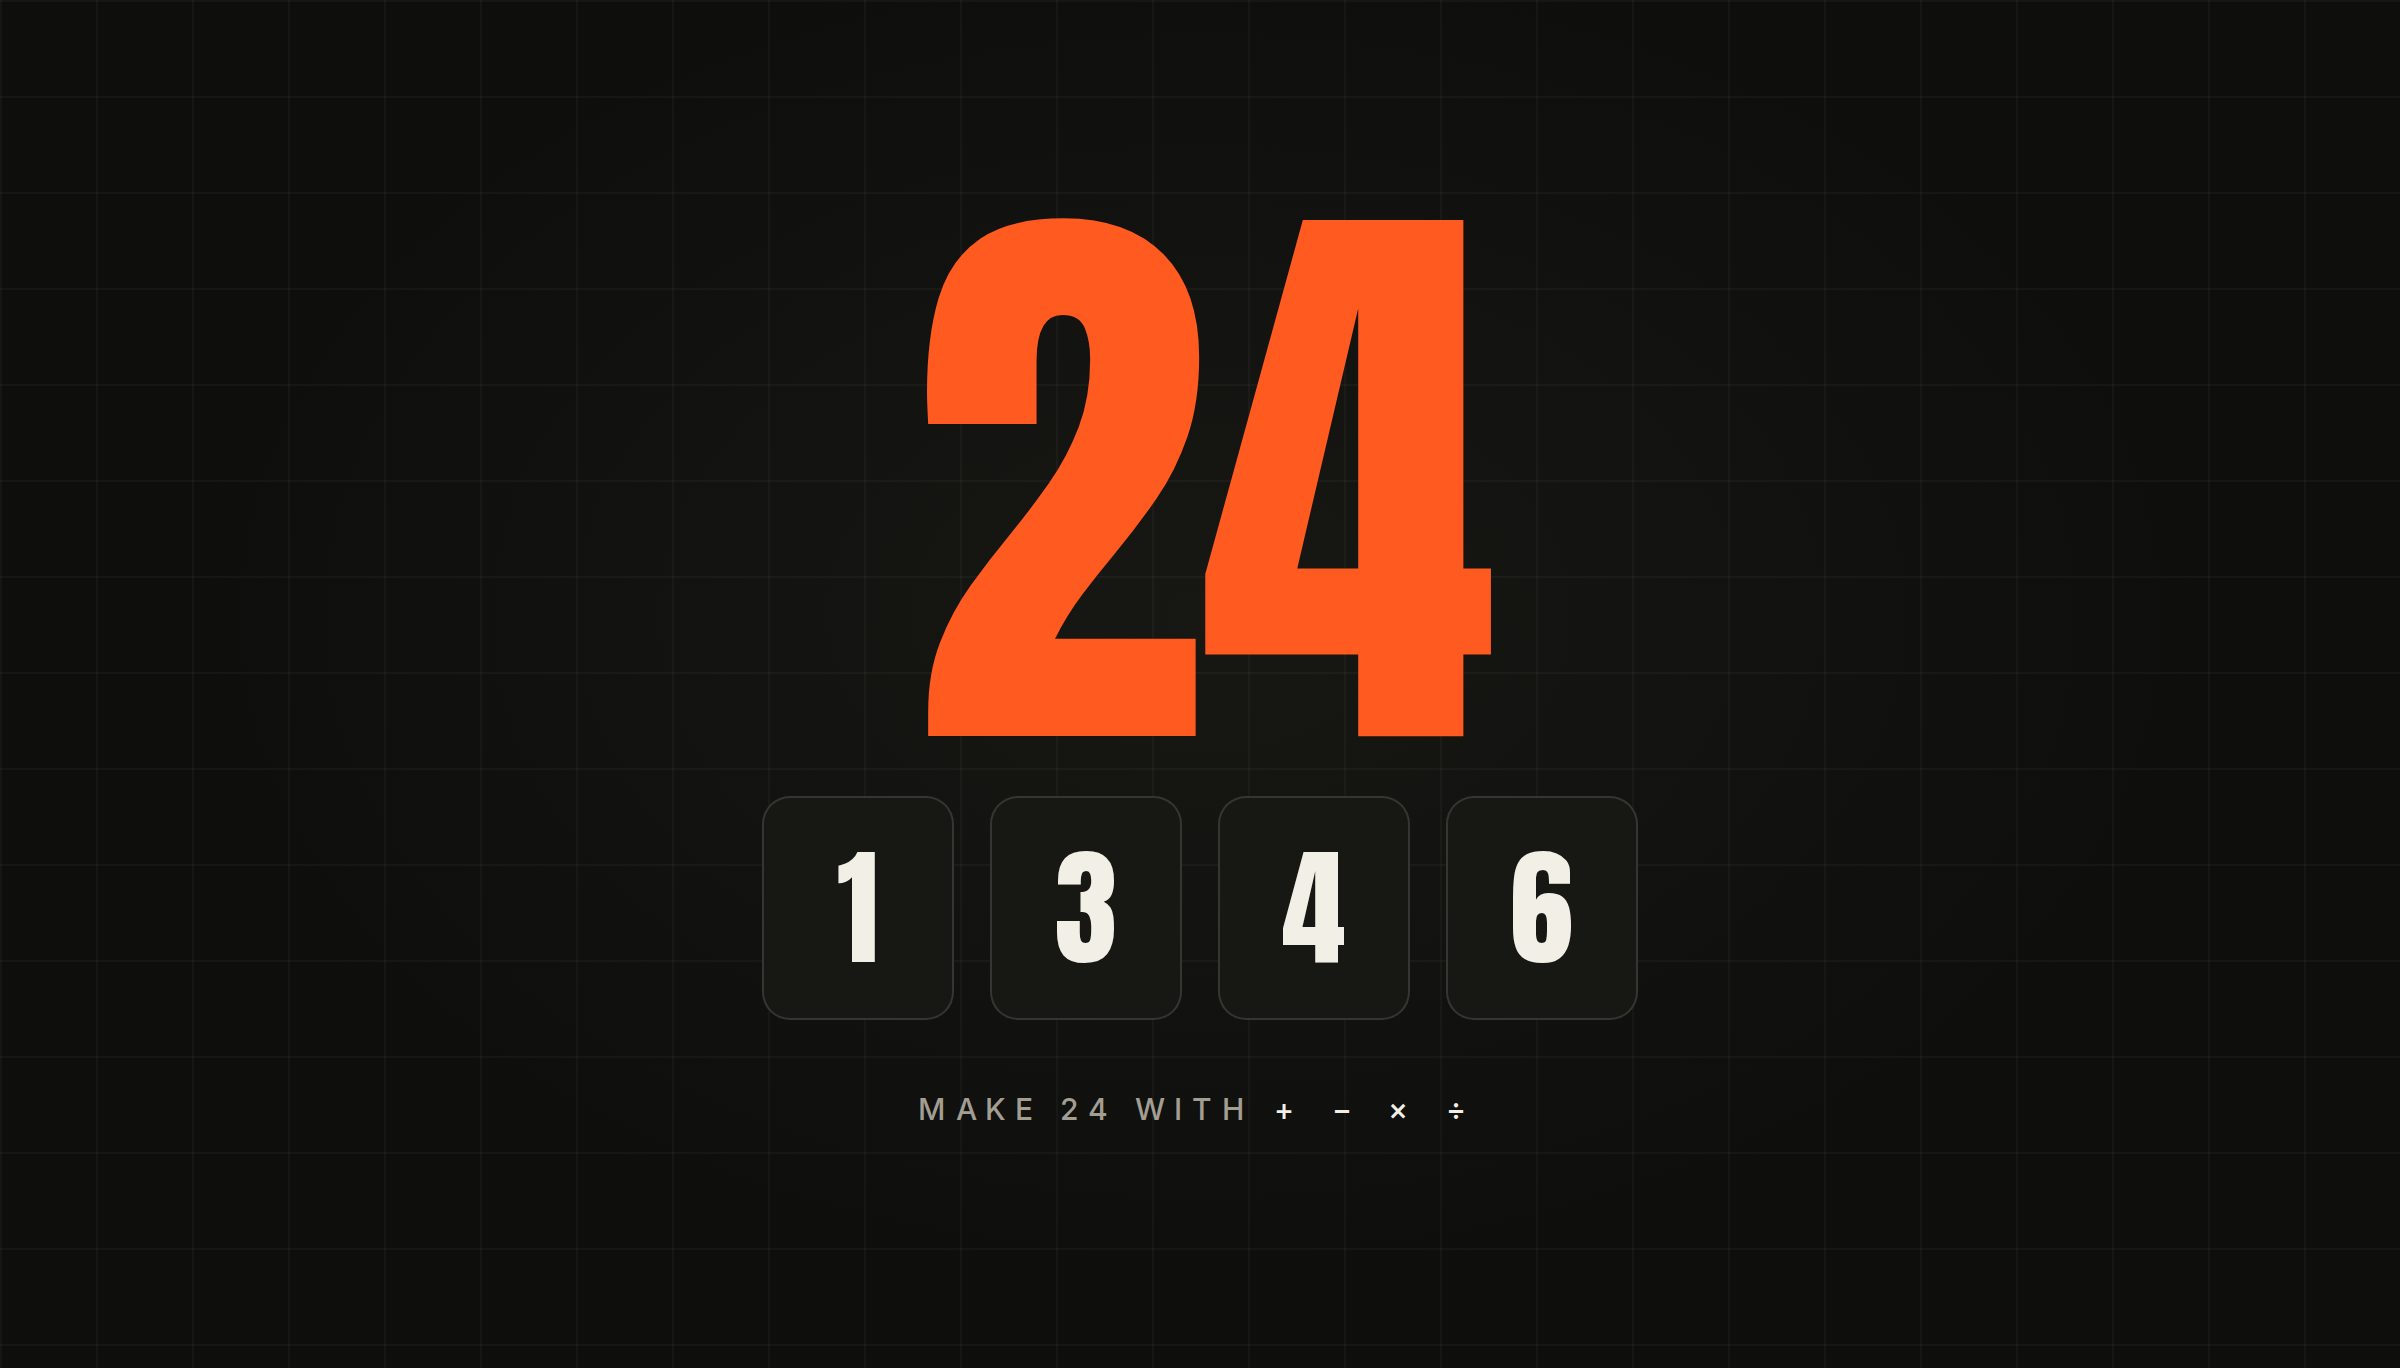
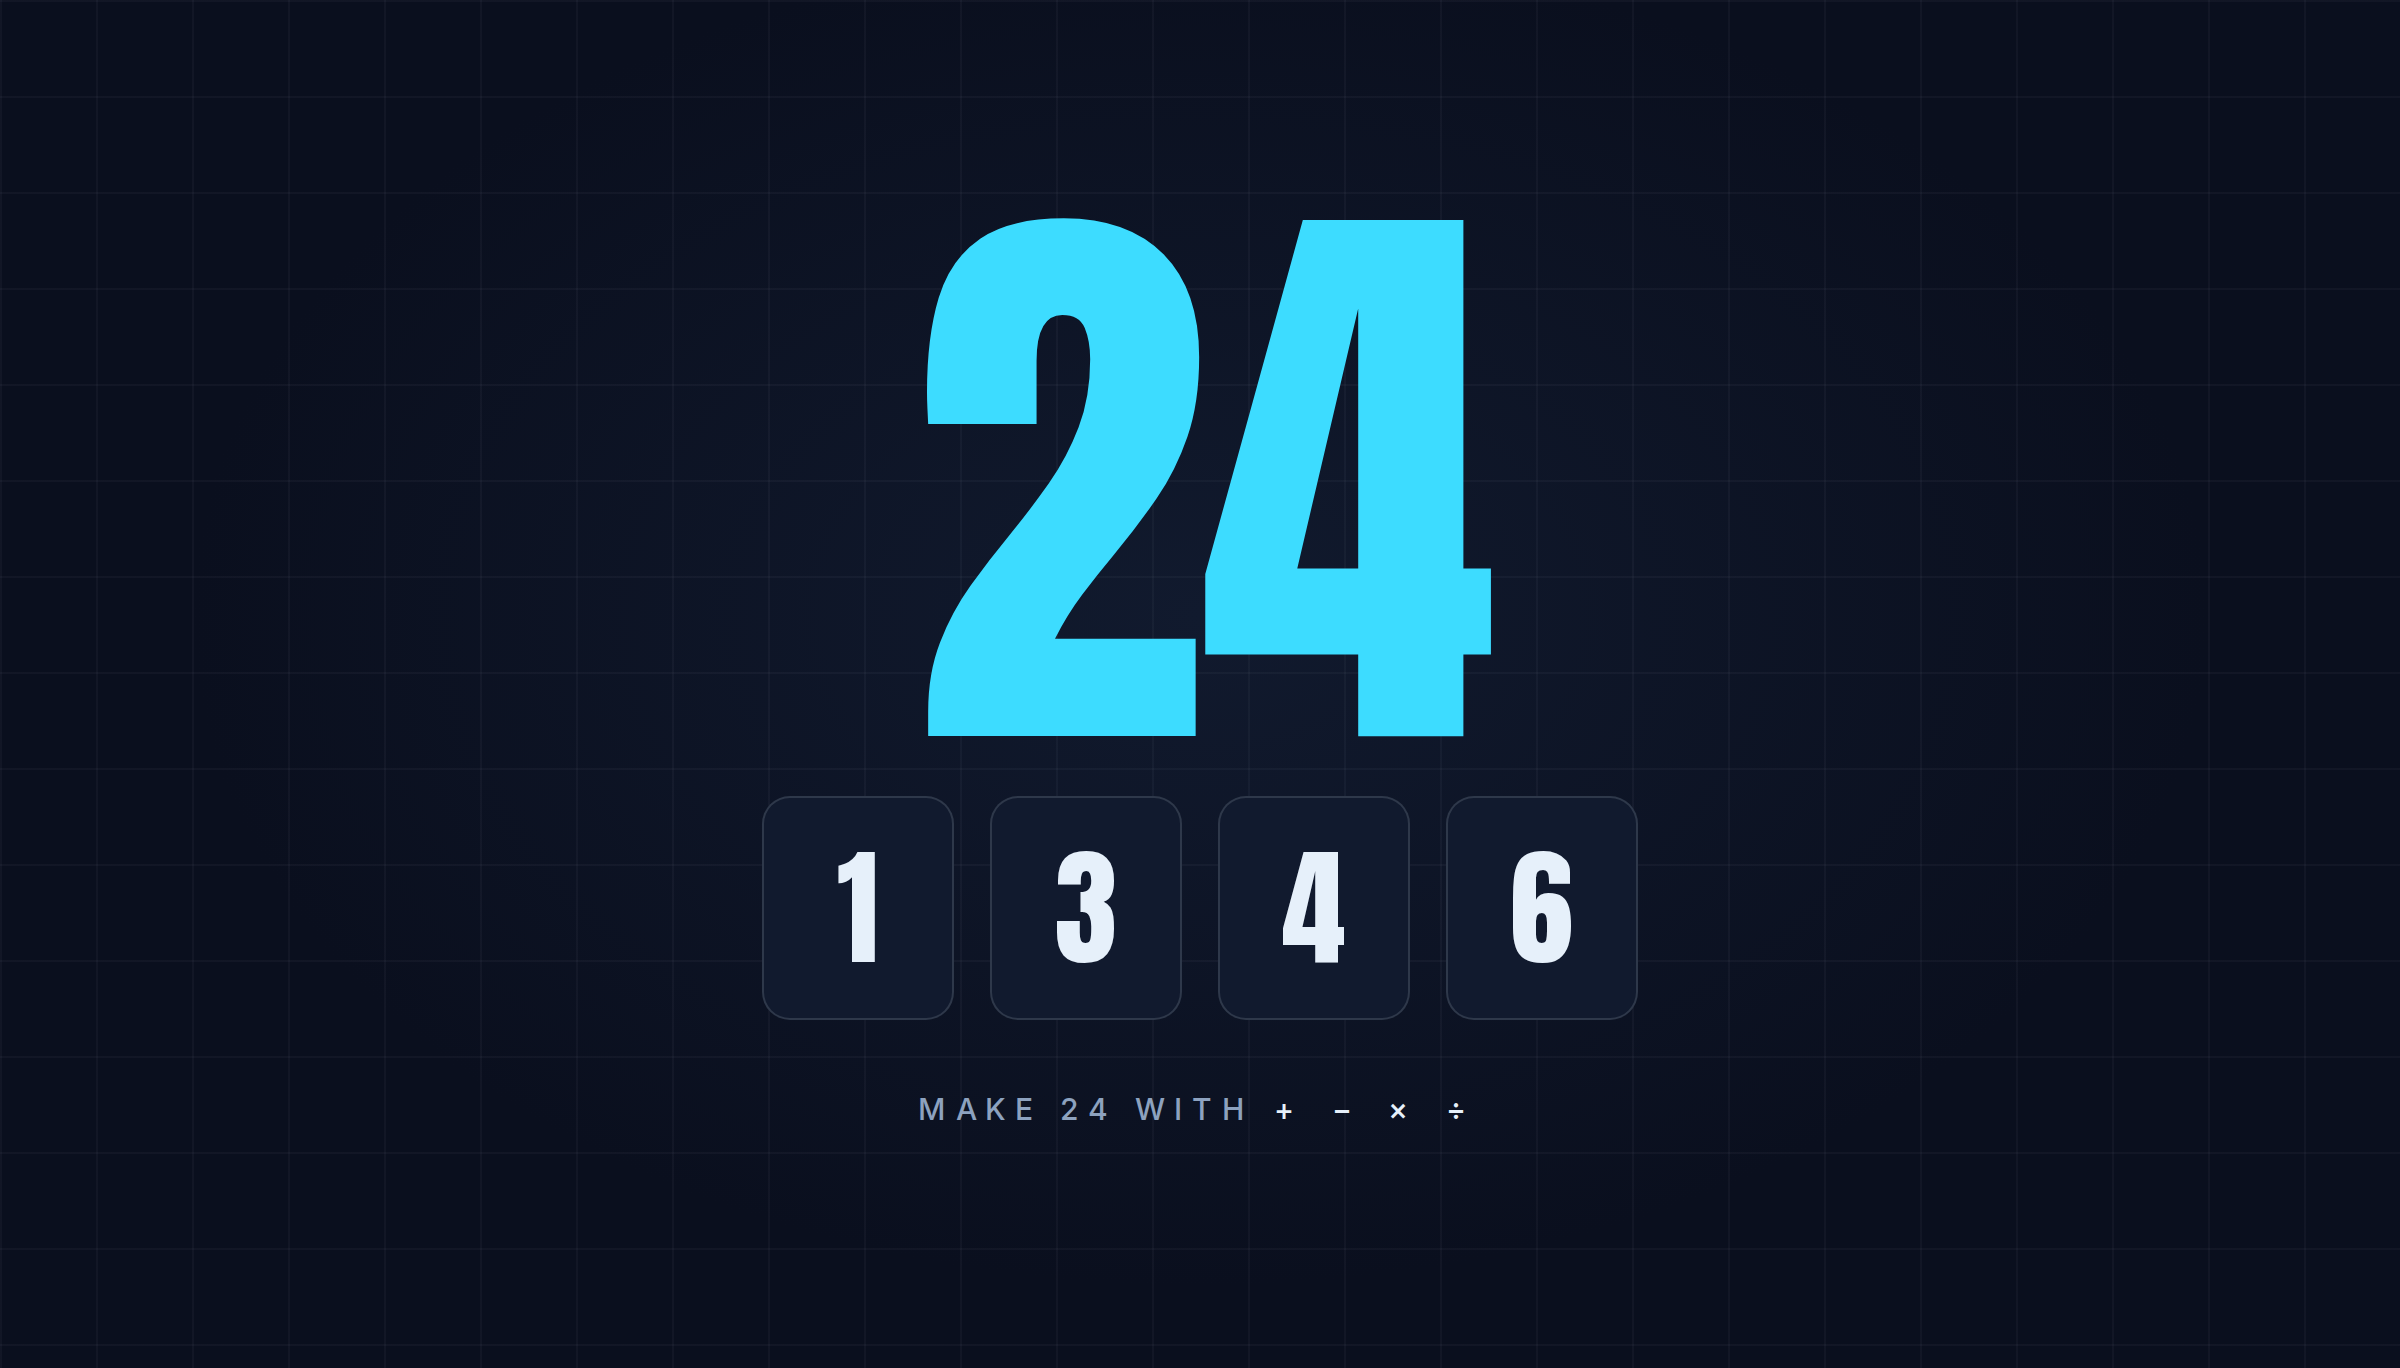
Cool palette: navy ink #0a0f1e, frost #e6f0fa, mute #8da2bf, electric cyan accent #3ddcff; header and rail scrims derive from --color-ink via color-mix; theme-color from src/lib/theme.ts; MATH24 cover card regenerated in the new palette

Changed region(s): [[0.3125, 0.1535, 0.6875, 0.7675], [0.375, 0.7982, 0.5, 0.8289]]

diff --git a/src/app/globals.css b/src/app/globals.css
@@ -18,15 +18,23 @@
    text-display-2xl ... text-display-sm, ease-out-expo / ease-in-out-expo
    ------------------------------------------------------------------------ */
 @theme {
-  --color-ink: #0e0e0c;
-  --color-ink-2: #171714;
-  --color-ink-3: #24241f;
-  --color-paper: #f2efe6;
-  --color-mute: #a29e92;
-  --color-line: rgb(242 239 230 / 0.14);
-  --color-accent: #ff5a1f;
-  --color-accent-soft: rgb(255 90 31 / 0.16);
-  --color-on-accent: #0e0e0c;
+  /* Cool palette (Oct 2026): deep navy ink, frost text, electric cyan accent.
+     Every colour on the site derives from these; nothing else hard-codes a hex
+     except the theme-color meta (src/lib/theme.ts mirrors --color-ink). */
+  --color-ink: #0a0f1e;
+  --color-ink-2: #111a2e;
+  --color-ink-3: #1b2741;
+  --color-paper: #e6f0fa;
+  --color-mute: #8da2bf;
+  --color-line: rgb(230 240 250 / 0.14);
+  --color-accent: #3ddcff;
+  --color-accent-soft: rgb(61 220 255 / 0.12);
+  --color-on-accent: #0a0f1e;
+  /* Decorative only (hero mesh, section tints); never used for text. */
+  --color-accent-2: #8b7dff;
+  --color-tint-work: #10183a;
+  --color-tint-about: #071a26;
+  --color-tint-contact: #17133a;
 
   --font-display: var(--font-anton), "Arial Narrow", "Helvetica Neue", sans-serif;
   --font-sans: var(--font-inter), ui-sans-serif, system-ui, sans-serif;
@@ -112,7 +120,12 @@ body {
   inset: 0;
   z-index: -1;
   pointer-events: none;
-  background: linear-gradient(to bottom, rgb(14 14 12 / 0.82) 0%, rgb(14 14 12 / 0.6) 55%, rgb(14 14 12 / 0) 100%);
+  background: linear-gradient(
+    to bottom,
+    color-mix(in srgb, var(--color-ink) 82%, transparent) 0%,
+    color-mix(in srgb, var(--color-ink) 60%, transparent) 55%,
+    transparent 100%
+  );
   -webkit-backdrop-filter: blur(6px);
   backdrop-filter: blur(6px);
   -webkit-mask-image: linear-gradient(to bottom, #000 55%, transparent);
@@ -195,11 +208,11 @@ body {
 .rail-scrim {
   background: linear-gradient(
     to bottom,
-    rgb(14 14 12 / 0.92) 0%,
-    rgb(14 14 12 / 0.86) 12%,
-    rgb(14 14 12 / 0.55) 28%,
-    rgb(14 14 12 / 0.55) 45%,
-    rgb(14 14 12 / 0.9) 68%,
+    color-mix(in srgb, var(--color-ink) 92%, transparent) 0%,
+    color-mix(in srgb, var(--color-ink) 86%, transparent) 12%,
+    color-mix(in srgb, var(--color-ink) 55%, transparent) 28%,
+    color-mix(in srgb, var(--color-ink) 55%, transparent) 45%,
+    color-mix(in srgb, var(--color-ink) 90%, transparent) 68%,
     var(--color-ink) 100%
   );
 }

diff --git a/src/app/layout.tsx b/src/app/layout.tsx
@@ -6,6 +6,7 @@ import SmoothScroll from "@/components/motion/SmoothScroll";
 import PageTransition from "@/components/motion/PageTransition";
 import CustomCursor from "@/components/motion/CustomCursor";
 import SkipLink from "@/components/SkipLink";
+import { INK } from "@/lib/theme";
 
 const display = Anton({
   weight: "400",
@@ -26,7 +27,7 @@ export const metadata: Metadata = {
 };
 
 export const viewport: Viewport = {
-  themeColor: "#0e0e0c",
+  themeColor: INK,
   colorScheme: "dark",
 };
 

diff --git a/src/lib/theme.ts b/src/lib/theme.ts
@@ -1,0 +1,6 @@
+/**
+ * The few palette values JS needs as literals (the <meta name="theme-color">
+ * cannot read CSS variables). Keep in sync with the @theme block in
+ * src/app/globals.css, which is the source of truth for every other colour.
+ */
+export const INK = "#0a0f1e";
